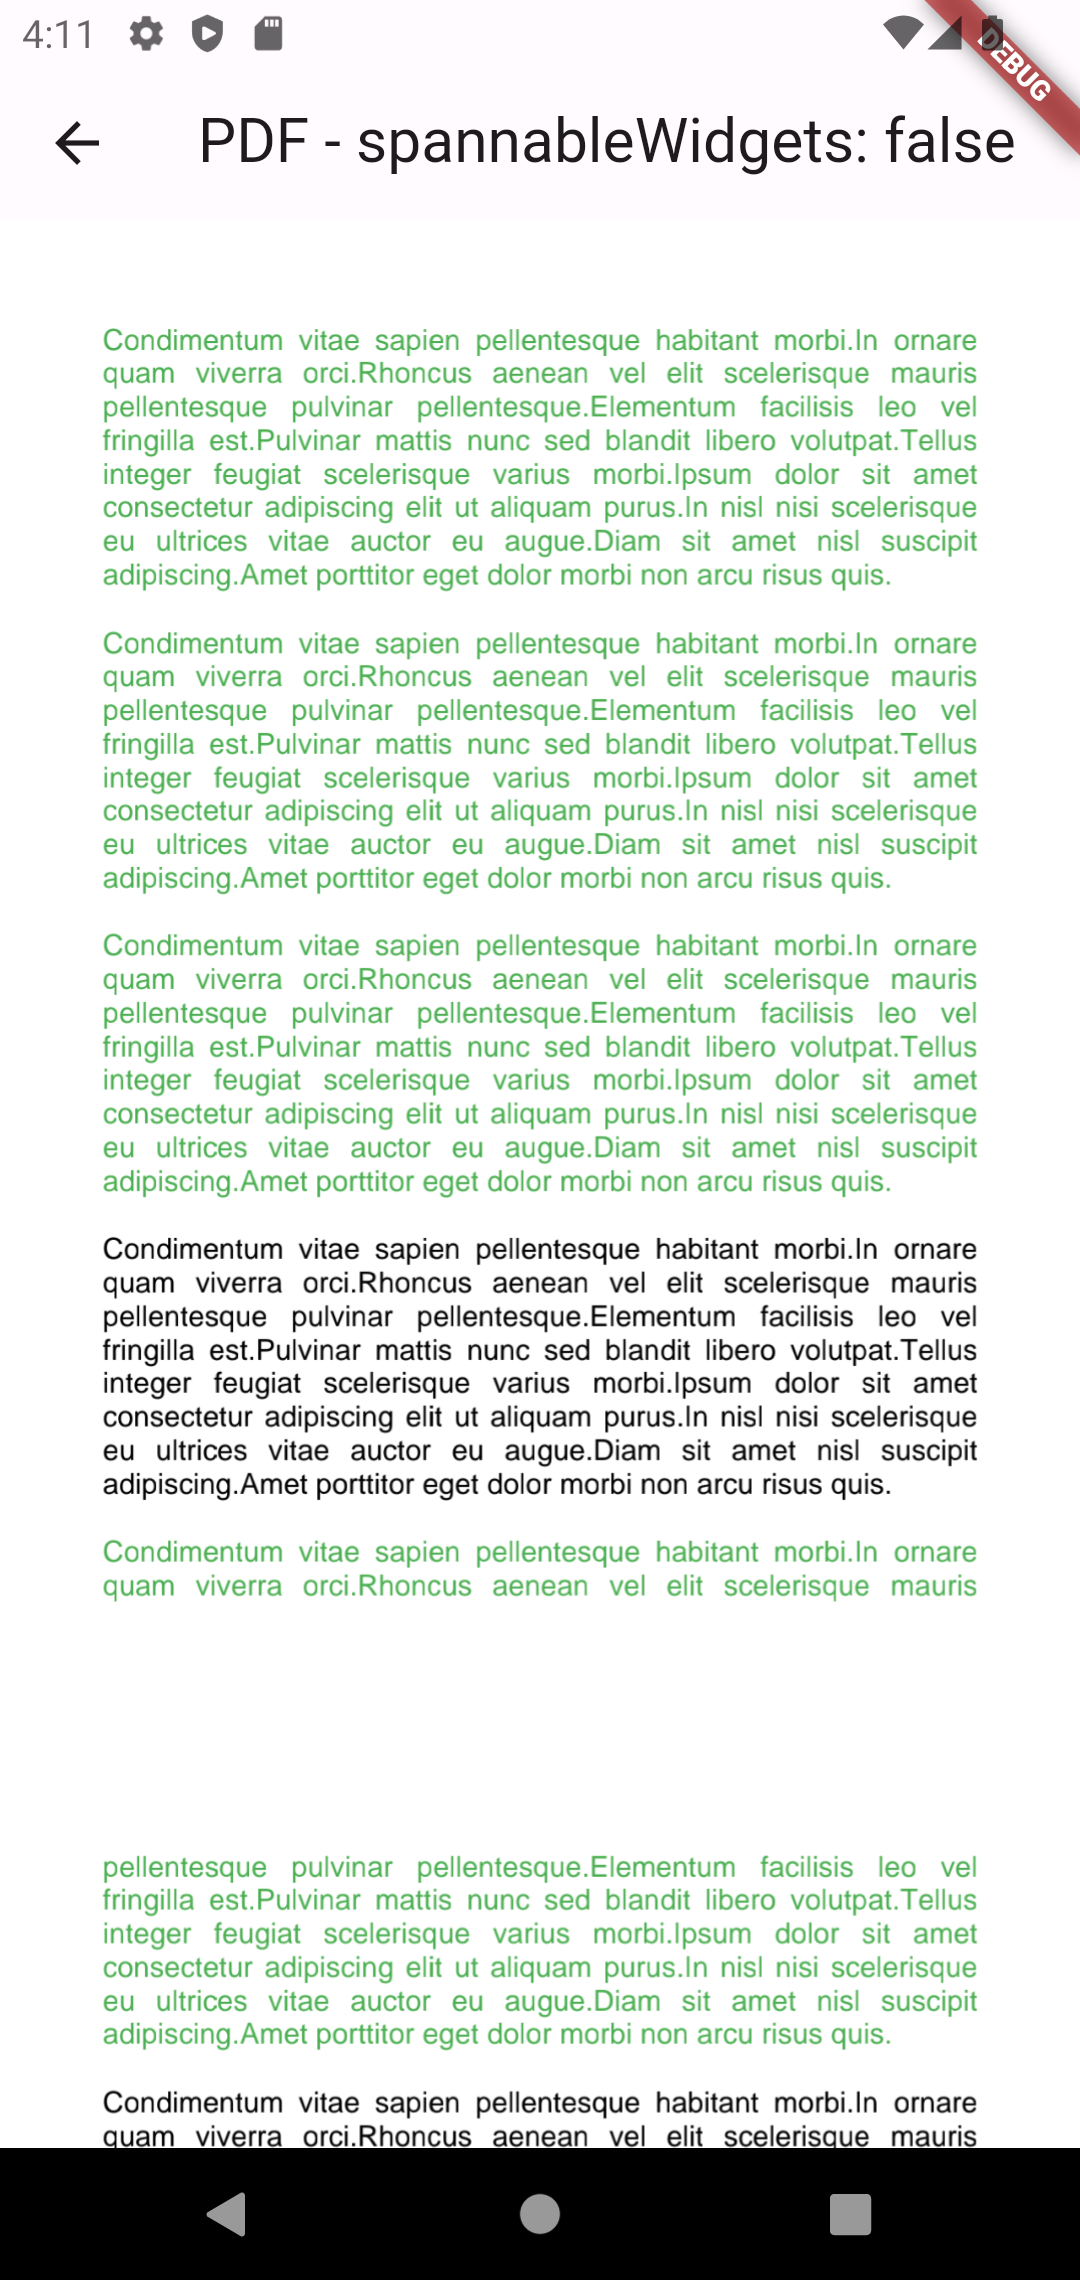
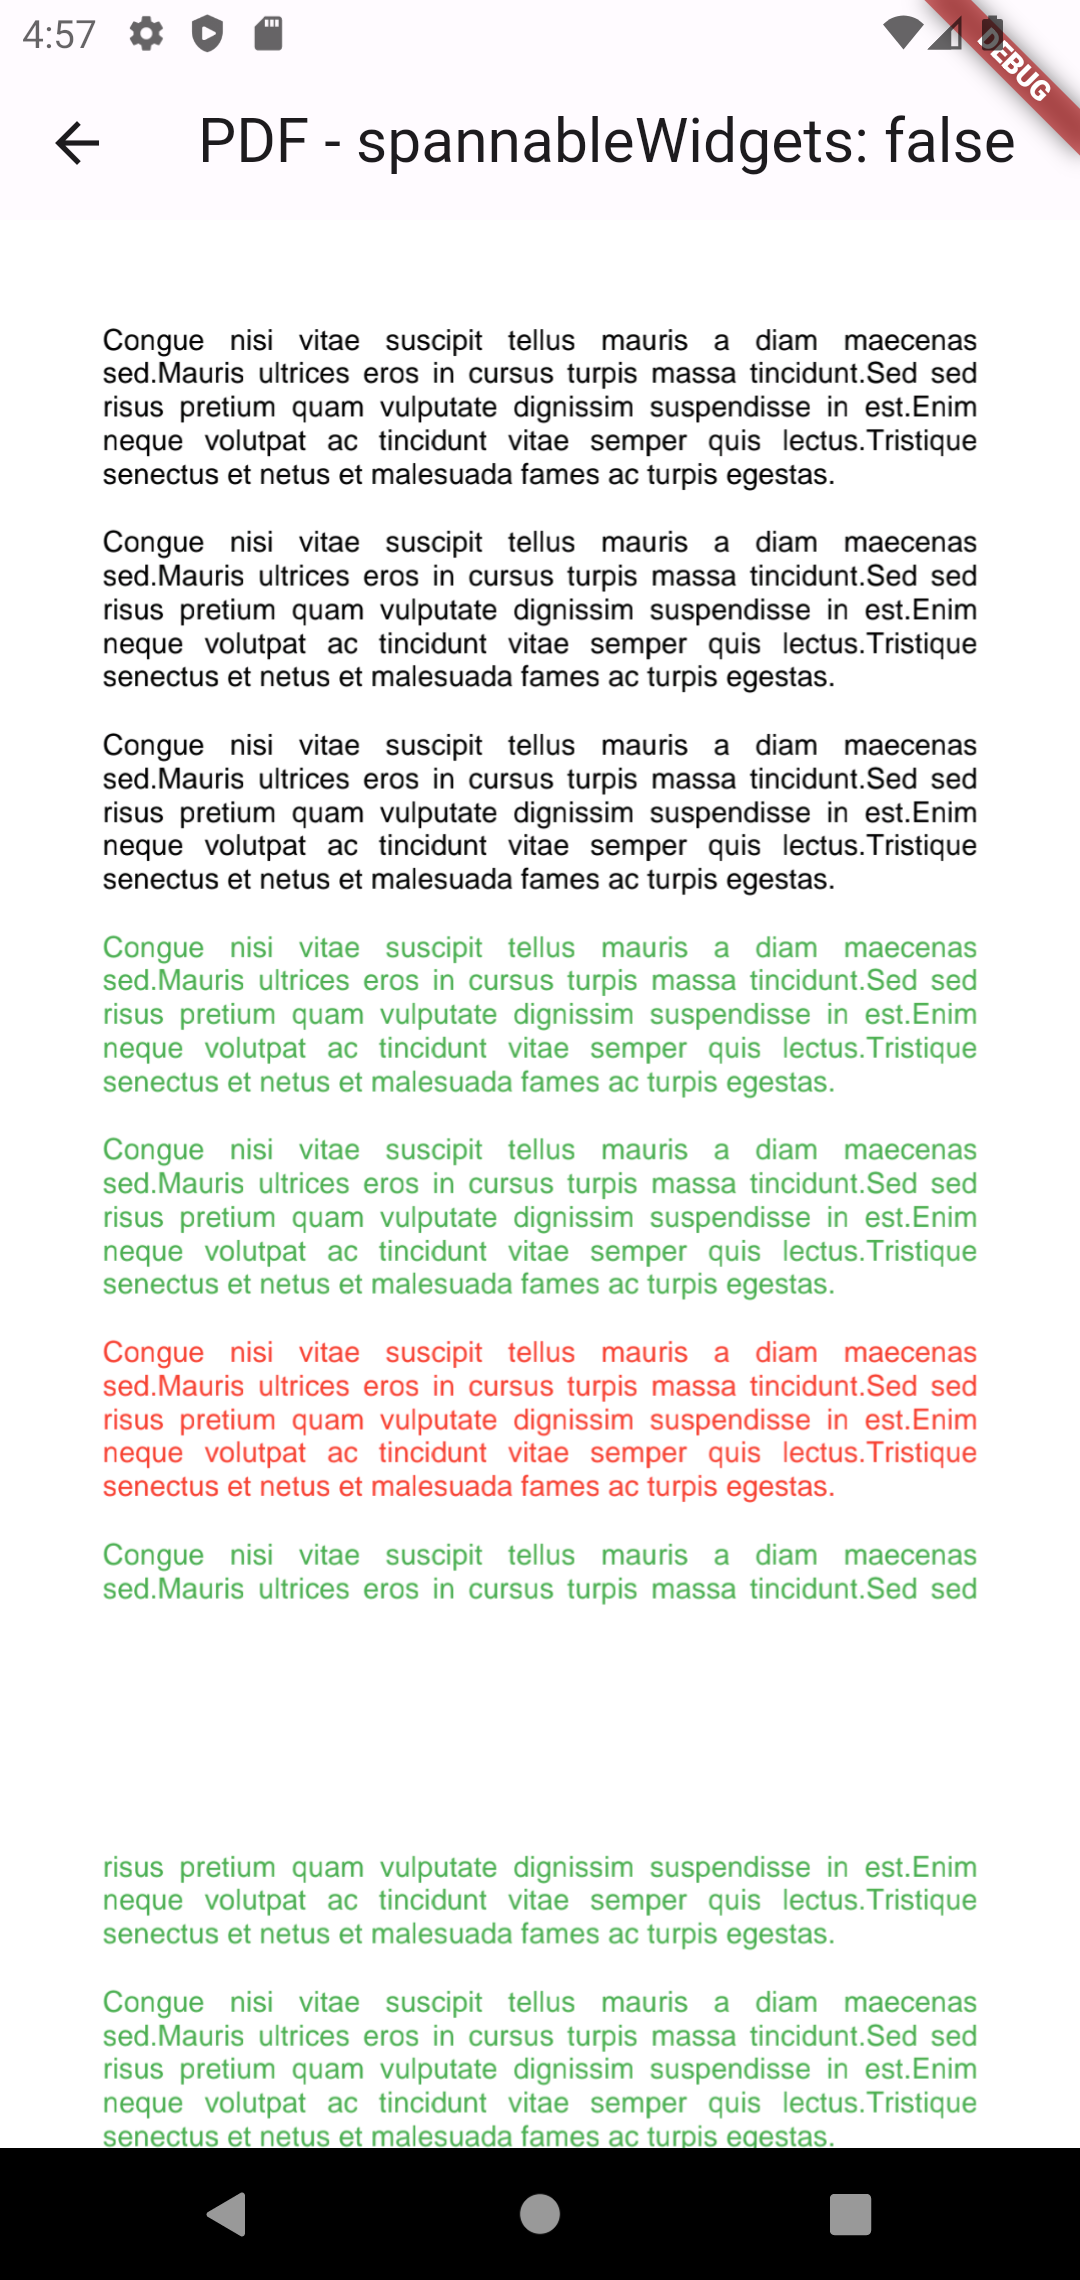
README update

Changed region(s): [[0.0917, 0.1246, 0.9167, 0.7162], [0.0917, 0.8096, 0.9167, 0.9654], [0.0611, 0.0, 0.0917, 0.0311]]

diff --git a/lib/src/pdf_spannable_widget_repo.dart b/lib/src/pdf_spannable_widget_repo.dart
@@ -13,24 +13,19 @@ part '_current.dart';
 /// [pageMargin] is pdf package's [EdgeInsets] implementation.
 class PdfSpannableWidgetRepo {
   PdfSpannableWidgetRepo({
-    required pw.EdgeInsets? pageMargin,
     required this.pdfPageFormat,
-    double pageSize = 720.0,
-  })  : _pageMargin = pageMargin,
-        _pageSize = pageSize;
+  });
 
   /// This map is used to keep [PdfSpannableWidget] intances
   /// in order to place these widgets into pdf document.
   final Map<String, PdfSpannableWidgetBase> _map = {};
 
   // pw.Document _pdfDocument;
-  final pw.EdgeInsets? _pageMargin;
   PdfPageFormat pdfPageFormat;
 
   /// height of a pdf page. This controls
   /// when to break widgets into incoming pages.
-  final double _pageSize;
-  double get pageSize => _pageSize;
+  double get pageSize => pdfPageFormat.availableHeight;
 
   final _Current _current = _Current();
 
@@ -155,7 +150,6 @@ class PdfSpannableWidgetRepo {
     pdfDocument.addPage(
       pw.MultiPage(
         pageFormat: pdfPageFormat,
-        margin: _pageMargin,
         build: (context) {
           return _current.getPwWidgets;
         },

diff --git a/example/example.dart b/example/example.dart
@@ -6,7 +6,6 @@ import 'package:pdf_spannable_widgets/pdf_spannable_widgets.dart';
 
 Future<Uint8List> generatePdf() async {
   PdfSpannableWidgetRepo pdfRepo = PdfSpannableWidgetRepo(
-    pageMargin: pw.EdgeInsets.zero,
     pdfPageFormat: PdfPageFormat.a4,
   );
 

diff --git a/README.md b/README.md
@@ -4,10 +4,10 @@ is put on the incoming pagei, this package place the whole paragraph in the same
 
 ## Features
 
-- Spannable widget looks like this.
-  ![spannable widgets](example/images/spannable_widget.png)
-- Non spannable widget that is seperated in different pages.
-  ![spannable widgets](example/images/non_spannable_widget.png)
+  <div display= "flex">
+    <img src="example/images/spannable_widget.png" width="320" height= "540">
+    <img src="example/images/non_spannable_widget.png" width="320" height= "540">
+  </div>
 
 ## Getting started
 
